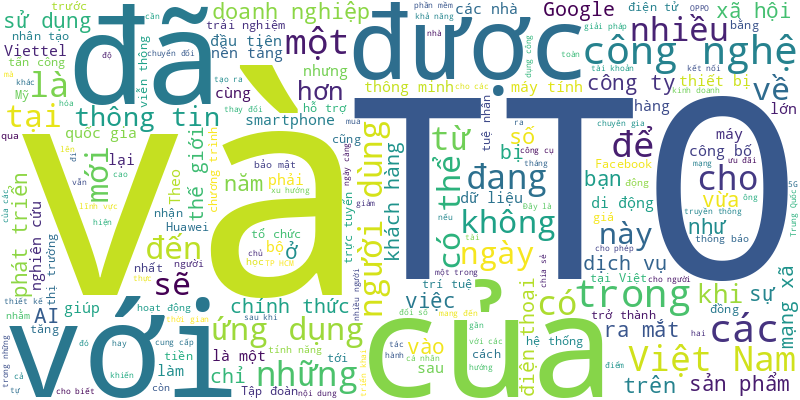
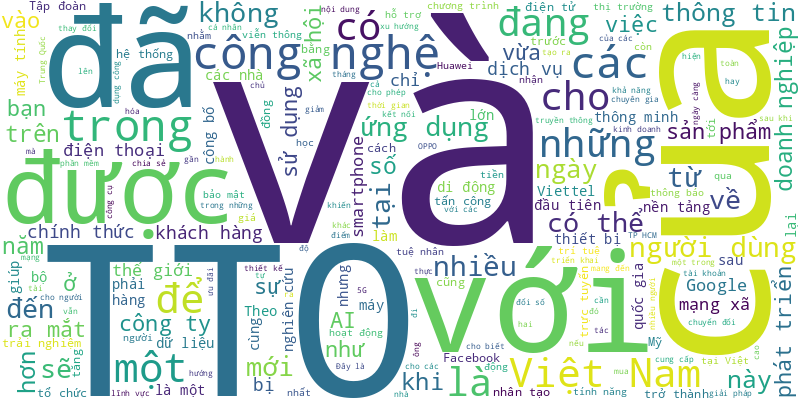
🍀 = 60%

diff --git a/README.md b/README.md
@@ -1,6 +1,20 @@
 # Tuoi Tre RSS 
 
 ## Giáo dục 
+- Sở GD-ĐT TP.HCM vừa xây dựng kế hoạch sắp xếp bộ máy khi không còn phòng GD-ĐT.
+- Công an tỉnh Bắc Giang vừa phát hiện 15 giáo viên mua bằng giả cao đẳng, đại học và chứng chỉ tin học, ngoại ngữ để thi tuyển hoặc xếp lương giáo viên.
+- Chuyên gia Ngân hàng Thế giới đã chỉ ra hàng loạt điểm yếu trong đào tạo nhân lực bán dẫn ở Việt Nam, và khuyến nghị doanh nghiệp cùng tham gia vào quá trình đào tạo để đảm bảo chất lượng đầu ra đáp ứng yêu cầu thực tiễn.
+- Trước khi nam sinh diễn văn nghệ bị điện giật tử vong, nhiều học sinh khác cũng nghe "tê tê" dưới chân khi đứng trên sân khấu, nghi rò rỉ điện.
+- Nhiều quốc gia đã triển khai các chương trình quy mô lớn nhằm nâng cao năng lực tiếng Anh cho đội ngũ giáo viên, không chỉ giới hạn ở giáo viên tiếng Anh.
+- Số trẻ em Hàn Quốc mắc trầm cảm, rối loạn lo âu tăng vọt, dấy lên lo ngại về áp lực học tập quá mức tại các khu vực nóng về giáo dục tư nhân như Gangnam.
+- Sáng 26-4, tại Trung tâm Đào tạo Nhân lực chất lượng cao (TP.HCM), trường Đại học Công nghệ TP.HCM (HUTECH) đã tổ chức lễ kỷ niệm 30 năm thành lập (26-4-1995 đến 26-04-2025).
+- Việc tuyển sinh trình độ cao đẳng năm 2025 vẫn được giữ ổn định như các năm gần đây.
+- Cần làm gì để việc khảo sát năng lực tiếng Anh cho giáo viên của Sở Giáo dục và đào tạo TP.HCM được thực chất hơn?
+- Sở Giáo dục và Đào tạo TP.HCM vừa xây dựng kế hoạch sắp xếp bộ máy khi không còn phòng giáo dục và đào tạo.
+- Nguyễn Thị Mỹ Ngọc, sinh viên khóa 2021 ngành vật lý kỹ thuật Trường đại học Bách khoa (Đại học Quốc gia TP.HCM), vừa tốt nghiệp trước hạn, xếp loại xuất sắc.
+- Tại Kỳ thi Olympic giao lưu toán học Turkmenistan vừa diễn ra, cả 6 học sinh Việt Nam dự giải đều đoạt huy chương vàng.
+- Nam sinh lớp 9 ở huyện Ba Tơ, Quảng Ngãi đang biểu diễn văn nghệ tại trường vô tình đụng vào trụ sắt trên sân khấu và bị điện giật tử vong.
+- GS.TS Đặng Lương Mô, GS danh dự Đại học Hosei (Nhật Bản), cố vấn cao cấp tại Đại học Quốc gia TP.HCM, là người tiên phong trong việc phát triển ngành công nghệ vi mạch tại Việt Nam.
 - Việc Sở Giáo dục và Đào tạo TP.HCM khảo sát năng lực tiếng Anh của giáo viên là chủ trương đúng, cần thiết. Nhưng cách thực hiện đang bộc lộ nhiều bất cập.
 - Trong năm 2024, có tổng cộng 29.187 du học sinh nước ngoài theo học tại Hàn Quốc, trong đó Việt Việt Nam dẫn đầu về số lượng du học sinh ngành kỹ thuật, chiếm 25,1% tổng số du học sinh.
 - Ngày 25-4 tại Trường đại học Điện lực, Ngày hội việc làm (EPU’s Job Fair 2025) thu hút gần 30 doanh nghiệp, trong đó có nhiều doanh nghiệp lớn như Samsung, Foxconn, BYD, FPT, mang lại hơn 3.000 cơ hội việc làm cho sinh viên.
@@ -990,22 +1004,71 @@ Trường đại học Văn Lang được QS xếp hạng top 51-100 thế giớ
 - Từng thực tập tại các "ông lớn" công nghệ như Facebook, Nvidia, thế nhưng "cơn bão" sa thải nhân sự tại Mỹ vào cuối năm 2023 khiến Nhật Quang vô cùng căng thẳng, phải rải hơn 600 đơn tìm việc làm từ khi chưa tốt nghiệp.
 - Đại học Huế vừa có quyết định hủy kết quả trúng tuyển cao học của bà Đào Thị Bích Thủy - một lãnh đạo Trường đại học Kinh Bắc.
 - Dù đã hoàn thành chương trình liên kết đào tạo thạc sĩ điều hành quản trị kinh doanh (EMBA) hơn 1 năm qua, nhưng đến nay học viên vẫn chưa được công nhận văn bằng tại Việt Nam.
-- Lịch nghỉ Tết Ất Tỵ năm 2025 của học sinh cả nước dao động từ 9 đến 15 ngày.
-- Trường liên cấp FPT tại Hậu Giang hứa hẹn mang lại làn gió mới cho ngành giáo dục và góp phần phát triển giáo dục của địa phương.
-- Trong ngày 11 và 12-1, báo Tuổi Trẻ tổ chức chuỗi 7 chương trình tư vấn tuyển sinh hướng nghiệp tại 6 tỉnh thành trên khắp cả nước, khởi động cho mùa tư vấn 2025.
-- Năm 2025, Trường đại học Y Hà Nội dự kiến sẽ mở thêm 2 ngành đào tạo mới, gồm ngành công tác xã hội và ngành kỹ thuật hình ảnh y học.
-- Đây là chia sẻ của Bộ trưởng Bộ Giáo dục và Đào tạo Nguyễn Kim Sơn tại lễ công bố quyết định của Thủ tướng Chính phủ chuyển Trường đại học Kinh tế quốc dân thành Đại học Kinh tế quốc dân sáng 12-1.
-- Vượt qua hơn 25.000 thí sinh, một sinh viên đã nhận được giải thưởng tiền mặt trị giá 1 tỉ đồng từ chương trình thực tế về quản lý tài chính cá nhân.
-- Nhiều học sinh ở Gia Lai lo tỉ lệ đậu tốt nghiệp THPT và đại học quá cao sẽ ảnh hưởng đến cơ hội tìm việc, lo sáp nhập sẽ kéo giảm nhu cầu nhân lực...
-- Học ngành sư phạm ngoại ngữ có nhiều cơ hội việc làm không; Học ngành gì khi Đà Nẵng sắp lập khu thương mại tự do... Học sinh thắc mắc khi đến Chương trình tư vấn tuyển sinh - hướng nghiệp tại Đà Nẵng sáng 12-1.
-- Đề thi tốt nghiệp có dễ hơn khi siết dạy thêm? Cơ hội việc làm các ngành ra sao khi nhiều nơi đang tinh gọn?... Học sinh băn khoăn tại Chương trình tư vấn tuyển sinh - hướng nghiệp diễn ra ở Thanh Hóa.
-- Học liên ngành, sinh viên ra trường có thể tiếp cận nhiều vị trí công việc khác nhau, có thêm nhiều kỹ năng về đổi mới sáng tạo, phân tích dữ liệu.
-- Nhiều băn khoăn, thắc mắc của thí sinh, phụ huynh về tuyển sinh đại học năm nay đã được đại diện Vụ Giáo dục đại học giải đáp cặn kẽ trong bốn buổi tư vấn đầu tiên của Chương trình tư vấn tuyển sinh - hướng nghiệp 2025.
-- TS Trần Hoàng Dũng - giáo sư trợ lý tại Đại học Nebraska-Lincoln (Mỹ) - được trao giải nhất SIU Prize Computer Science với những đóng góp xuất sắc trong lĩnh vực hệ thống thực - ảo tự học.
-- Học sinh thích thú khi gặp chú chó robot biết thả tim, được mở quà 'túi mù'… trong chương trình tư vấn tuyển sinh đang diễn ra tại Đà Nẵng sáng nay 12-1.
-- Chiều 11-1, Viện phát triển nguồn lực xã hội Phương Nam (Viện Phương Nam) ký kết thỏa thuận hợp tác với Trường đại học Khoa học, Đại học Huế.
 ![Edu](Edu.png)
 ## Thời Sự 
+- Trả lời ý kiến nhân dân về việc vì sao không tổ chức thành phố Hội An như hiện nay thành một phường, ông Lê Văn Dũng - Chủ tịch UBND tỉnh Quảng Nam - cho rằng nếu thành lập phường xã mà qui mô quá lớn thì khó gần dân, sát dân.
+- Sau khi sáp nhập 3 tỉnh Bến Tre, Trà Vinh và Vĩnh Long thành một tỉnh mới, ngoài cây cầu Cổ Chiên hiện hữu, trong tương lai sẽ có thêm cầu Cổ Chiên 2 và cầu Đình Khao. Vị trí của những cây cầu này nằm ở đâu?
+- Ông Hoàng Khánh Duy - phó trưởng Ban quản lý Khu kinh tế cửa khẩu Đồng Đăng - Lạng Sơn (tỉnh Lạng Sơn) - cho biết tình hình xuất nhập khẩu hàng hóa ở các cửa khẩu tại tỉnh Lạng Sơn vẫn hoạt động bình thường.
+- Dưới dây là những thông tin về thời gian, khu vực cấm xe, kinh nghiệm đi xem tổng duyệt an toàn, những điểm lý tưởng xem các hoạt động chính của đại lễ...
+- Trưa 26-2, anh Alvin Neoh (35 tuổi, người Malaysia) cùng hai người bạn của mình tranh thủ đến Bưu điện TP.HCM để chụp ảnh, ngắm quang cảnh TP.
+- Theo thống kê của UBND xã Phong Vân (huyện Ba Vì, Hà Nội), có 47 hộ dân ở bãi sông Hồng bị nứt, đoạn đê kè bị ảnh hưởng vẫn chưa được gia cố lại dù đã một năm trôi qua.
+- Sau khi hoàn thành phần diễu binh ngang qua lễ đài, các khối quân đội, công an tỏa ra 4 hướng về điểm tập kết, đi giữa tiếng hò reo động viên của đông đảo người dân.
+- Dự kiến, sau khi hợp nhất tỉnh Lào Cai và tỉnh Yên Bái, các cơ quan, đơn vị thuộc tỉnh Lào Cai mới sẽ bố trí hai nơi làm việc ở Yên Bái (trụ sở chính) và Lào Cai.
+- 8h08, máy bay tới TP.HCM, người dân hò reo phấn khích. Nắng lên không làm người dân khó chịu mà ai cũng hào hứng, tự hào chen lẫn xúc động.
+- Tin tức đáng chú ý: Sáp nhập Gia Lai và Bình Định, tỉnh mới có 135 đơn vị hành chính; "Chuyến tàu đại đoàn kết" - hải trình đưa 60 kiều bào thăm Trường Sa và Nhà giàn DK1; Cảnh báo có thuốc giả mua bán trên mạng...
+- Tại bến Bạch Đằng nơi bố trí trận địa pháo lễ và có tầm nhìn tốt để thấy máy bay trực thăng, tiêm kích, người dân cũng tập trung từ rất sớm. Tại đây hầu như không còn vị trí trống từ 6h sáng.
+- Hôm nay 27-4, mưa sẽ giảm ở Nam Bộ, thời tiết nắng nóng quay trở lại và chiếm ưu thế.
+- Hệ thống đèn hiệu đường băng sân bay Long Thành vừa hoàn thành, vận hành thử nghiệm thành công sẵn sàng phục vụ công tác bay hiệu chuẩn.
+- Phát biểu nhân kỷ niệm 50 năm thống nhất đất nước, Chủ tịch Quốc hội Trần Thanh Mẫn lưu ý Cần Thơ cần đảm bảo sự đoàn kết, đồng thời "mới mẻ trong cách nghĩ - sáng tạo trong cách làm - hiệu quả trong triển khai thực hiện".
+- Tổng Bí thư, Chủ tịch nước Lào Thongloun Sisoulith và Chủ tịch Đảng Nhân dân Campuchia (CPP), Chủ tịch Thượng viện Campuchia Hun Sen sẽ dẫn đầu đoàn đại biểu cấp cao hai nước này sang dự lễ kỷ niệm ngày 30-4.
+- Long An đã tổ chức lễ dâng hương nghĩa trang liệt sĩ, lễ kỷ niệm và hội chợ, triển lãm nhân dịp 50 năm ngày thống nhất đất nước.
+- Phó thủ tướng thường trực Nguyễn Hòa Bình mong người lao động chủ động học hỏi, rèn luyện kỹ năng, tăng cường kỷ luật, không ngừng đổi mới, sáng tạo và yêu lao động như yêu chính cuộc sống của mình.
+- Theo bí thư Tỉnh ủy Bình Định, phương án sáp nhập hai tỉnh phải tạo được sự đoàn kết, nhất trí cao và mang lại sức mạnh mới đưa tỉnh phát triển tốt hơn.
+- Ông Nguyễn Trọng Nghĩa - Trưởng Ban Tuyên giáo và Dân vận Trung ương đến thăm, động viên, tặng quà lực lượng công an tham gia diễu binh tại Lễ kỷ niệm 50 năm Ngày Giải phóng miền Nam, thống nhất đất nước.
+- Các dự án cầu Cát Lái, Phú Mỹ 2, Đồng Nai 2 nối TP.HCM và Đồng Nai có tổng mức vốn gần 60.000 tỉ đồng.
+- 100% đại biểu Hội đồng nhân dân tỉnh Yên Bái và Lào Cai biểu quyết thông qua nghị quyết về chủ trương hợp nhất tỉnh Lào Cai và tỉnh Yên Bái thành tỉnh Lào Cai.
+- Ngoài một số đường phố, quảng trường 1 Tháng 4 cũng được đổi tên thành quảng trường Phú Yên.
+- Dự kiến sẽ có tổng số 79 trụ sở dôi dư sau khi 2 tỉnh Quảng Bình, Quảng Trị sáp nhập thành tỉnh Quảng Trị mới.
+- Trung tướng Nguyễn Văn Long - thứ trưởng Bộ Công an vừa có thư khen Công an tỉnh Thanh Hóa về thành tích triệt phá đường dây sản xuất, buôn bán thuốc giả quy mô lớn.
+- Nguyên nhân tai nạn bước đầu được xác định là xe khách đi từ thị trấn Tam Đảo (Vĩnh Phúc) xuống bị mất phanh.
+- Sáng mai 27-4 sẽ diễn ra buổi tổng duyệt diễu binh, diễu hành cấp nhà nước. Buổi này có những hoạt động gì khác với những buổi tổng luyện, sơ duyệt?
+- Nhu cầu đặt xe công nghệ để vào trung tâm TP.HCM xem diễu binh, bắn pháo hoa dịp lễ 30-4 và 1-5 tăng cao. Khách hàng sẵn sàng trả giá cao nhưng vẫn khó gọi được xe.
+- Người dân cho biết họ từng ra vào hang Lèn Chùa nhưng không phát hiện điều bất thường. Trước khi phát hiện xương và sọ người, có một nhóm người xuất hiện ở gần hang.
+- Dự Luật Tổ chức Tòa án nhân dân sửa đổi đề xuất tổ chức mô hình tòa án 3 cấp, trong đó bỏ Tòa án nhân dân cấp cao, cấp huyện, lập tòa chuyên trách trong tòa án khu vực.
+- Phóng viên Tuổi Trẻ tham gia cùng đoàn công tác số 12, Quân chủng Hải quân (Bộ Quốc phòng) và Bộ Y tế vừa có chuyến công tác đến quần đảo Trường Sa và nhà giàn DK1/15 trong những ngày đặc biệt của đất nước.
+- Mạng xã hội lại xuất hiện một clip phản cảm, ghi lại cảnh khán giả 'hỗn chiến' trên sông bằng đất đá, vật cứng tại một giải đua ghe ở Huế, khiến dư luận bức xúc.
+- Xe chở rác va chạm với 2 xe máy trên quốc lộ N2 khiến hai người chết tại chỗ, hai người bị thương nặng.
+- Theo thông tin cập nhật từ Bệnh viện Đa khoa tỉnh Vĩnh Phúc, 3 nạn nhân bị thương nặng trong vụ lật xe khách ở Tam Đảo sáng nay đã được chuyển cấp cứu khẩn cấp về Bệnh viện Việt Đức.
+- Tòa án nhân dân tối cao đề nghị UBND tỉnh Nghệ An tiếp nhận phần diện tích nhà đất gần 650m² để giải quyết vụ việc 8 hộ dân sống 'treo' suốt hơn 30 năm qua.
+- Ngày 26-4, Thủ tướng Phạm Minh Chính đã ký quyết định bổ nhiệm Trung tướng Nguyễn Hồng Thái, tư lệnh Quân khu 1, giữ chức thứ trưởng Bộ Quốc phòng.
+- Di tích khảo cổ Vĩnh Hưng ở Bạc Liêu được xếp hạng di tích quốc gia đặc biệt. Di tích thuộc nền văn hóa Óc Eo này có 5 hiện vật đã được công nhận là bảo vật quốc gia.
+- Dài gần 14km với 12 làn xe, đường Phạm Văn Đồng với cây cầu Bình Lợi sừng sững bắc qua sông Sài Gòn như một biểu tượng đón chào tất cả mọi người.
+- Trong số 200 sản phẩm thực phẩm bảo vệ sức khỏe mà Công ty TNHH công nghệ Herbitech (Hà Nội) đã gia công sản xuất, cơ quan công an xác định có 2 sản phẩm giả mạo kết quả kiểm nghiệm.
+- Dự luật đề xuất HĐND cấp xã ban hành nghị quyết để quy định những vấn đề được luật, nghị quyết của Quốc hội giao.
+- Theo Tổng Thanh tra Chính phủ Đoàn Hồng Phong, dự luật quy định thống nhất một hoạt động thanh tra, không phân biệt thanh tra hành chính, thanh tra chuyên ngành.
+- Hiện nay Đà Nẵng không có HĐND phường, mà chỉ có ở xã. Sau khi sắp xếp thu gọn còn 16 đơn vị hành chính cấp xã phường, rồi hợp nhất với Quảng Nam thì tổ chức HĐND cấp xã phường sẽ tổ chức ra sao?
+- Ngày 26-4, Tỉnh ủy Tây Ninh đã tổ chức hội nghị công bố quyết định của Ban Bí thư về công tác cán bộ.
+- Dự báo khoảng ngày 27 đến 28-4, miền Bắc đón đợt không khí lạnh yếu, gây mưa, mưa vừa, cục bộ mưa to và rải rác có dông, nguy cơ xảy ra dông, lốc, sét.
+- Nữ thầy bói hù người đang mắc bệnh ung thư bị người âm theo, cần phải 'dâng lệnh' để cúng, nếu không cả gia đình sẽ bị ung thư hết. Từ đó, nữ thầy bói lừa nạn nhân 370 triệu đồng.
+- Ngày 26-4, làng Canh Tiến, xã Canh Liên (huyện Vân Canh, Bình Định) được đấu nối vào lưới điện quốc gia trong niềm vui mừng khôn tả của đồng bào.
+- Vào một số khung giờ, xe tải 20 tấn sẽ bị cấm di chuyển qua đèo Bảo Lộc (quốc lộ 20, tỉnh Lâm Đồng) trong dịp nghỉ lễ 30-4, 1-5 năm nay.
+- Ứng dụng MultiGo vừa chính thức giới thiệu loạt tính năng mới nhằm nâng cao trải nghiệm người dùng, và thúc đẩy việc sử dụng giao thông công cộng tại TP.HCM.
+- Hai tàu hàng di chuyển trên sông Lòng Tàu (xã An Thới Đông, huyện Cần Giờ) bất ngờ xảy ra va chạm. Cơ quan chức năng ghi nhận có dầu tràn ra sông.
+- Sáng 26-4, dự án nâng cấp, mở rộng đường Nguyễn Thị Định được khởi công. Dự án nhằm cải thiện hạ tầng giao thông khu vực cửa ngõ phía đông TP.HCM, cảng Cát Lái.
+- Sáng 26-4, Thủ tướng Phạm Minh Chính - trưởng Ban Chỉ đạo các công trình trọng điểm, dự án quan trọng quốc gia lĩnh vực đường sắt - chủ trì phiên họp thứ hai.
+- Xe khách bị lật ngang nằm ở mép đường đèo Tam Đảo, Vĩnh Phúc khiến 3 người chết, 8 người bị thương. Lực lượng chức năng đang phong tỏa hiện trường, đưa các nạn nhân đi cấp cứu.
+- TP Huế sẽ dùng phần lớn số tiền 1.120 tỉ đồng thu vượt ngân sách dự toán 2024 để sử dụng làm nguồn cải cách tiền lương.
+- Các điểm vui chơi nổi tiếng ở TP Phú Quốc (Kiên Giang) những ngày này đã được trang trí rực đỏ lá cờ Tổ quốc. Khách du lịch trong và ngoài nước vui thích chụp ảnh bên cờ đỏ sao vàng Việt Nam.
+- Nhiều người dân ở TP Phú Quốc sau khi ăn nấm lạ phải đi cấp cứu, nghi bị ngộ độc, có người rơi vào hôn mê.
+- Sáng 26-4, HĐND tỉnh Quảng Nam tổ chức kỳ họp thứ 31, các đại biểu thảo luận, thông qua các nghị quyết quan trọng về chủ trương sắp xếp đơn vị hành chính cấp tỉnh, cấp xã.
+- Công trình công viên tượng đài, nhà lưu niệm Anh hùng liệt sĩ Võ Thị Sáu tại tỉnh Bà Rịa - Vũng Tàu được khánh thành đúng dịp lễ 30-4 mang nhiều ý nghĩa. Đại tướng Phan Văn Giang đến dự lễ khánh thành, thắp hương viếng nữ Anh hùng Võ Thị Sáu.
+- Nhằm bảo đảm người dân an tâm vui chơi, Công an TP.HCM khuyến cáo kỹ năng thoát nạn khi tham gia các sự kiện, lễ hội đông người.
+- Chính phủ đề xuất 12 chính sách miễn, giảm tiền thuê đất cho các trường hợp, trong đó có dự án chip bán dẫn, trí tuệ nhân tạo.
+- Ngày 30 tháng 4 gợi chúng ta nhớ lại ngày toàn thắng của Chiến dịch Hồ Chí Minh lịch sử. Đất nước, giang sơn thu về một mối.
+- UBND TP.HCM sẽ khảo sát cán bộ, công chức, viên chức ở các đơn vị trực thuộc để cân nhắc, điều chỉnh, hoàn thiện các giải pháp, phương án sắp xếp bộ máy, bố trí và giải quyết chế độ, chính sách cho đội ngũ dôi dư.
+- Ngày mai 27-4, các khối diễu binh, diễu hành sẽ tổng duyệt ở khu vực trung tâm TP.HCM. Người dân cần nắm rõ khu vực cấm xe, điểm gửi xe... để đi lại an toàn, tránh ùn tắc.
+- Nam sinh lớp 9 ở huyện Ba Tơ, Quảng Ngãi đang biểu diễn văn nghệ tại trường vô tình đụng vào trụ sắt trên sân khấu và bị điện giật tử vong.
+- Sáng 26-4, HĐND tỉnh Quảng Nam tổ chức kỳ họp thứ 31, trong đó các đại biểu sẽ thảo luận, thông qua các nghị quyết quan trọng về chủ trương sắp xếp đơn vị hành chính cấp tỉnh, cấp xã.
 - Quảng Nam - Đà Nẵng là một trong những nơi có liệt sĩ, Mẹ Việt Nam anh hùng nhiều nhất cả nước. Trong hàng vạn gia đình tận hiến cho Tổ quốc, có một gia đình có tới 3 anh hùng: một người là cha, người kia là mẹ và người kế tiếp là con trai.
 - Một người đàn ông trú tại tỉnh An Giang đã thuê giang hồ chặn xe chở gỗ của người nợ tiền mình để cưỡng đoạt tài sản, rồi mang đi bán trừ nợ.
 - Ngày 25-4, Viện Nghiên cứu phát triển TP.HCM tổ chức hội thảo về định hình không gian phát triển TP.HCM mới sau khi sáp nhập thêm Bình Dương và Bà Rịa - Vũng Tàu.
@@ -1943,69 +2006,6 @@ Trường đại học Văn Lang được QS xếp hạng top 51-100 thế giớ
 - Vợ chồng Việt kiều Nguyễn Ngọc Lý bị khởi tố, bắt tạm giam để phục vụ công tác điều tra hành vi lừa đảo chiếm đoạt tài sản.
 - Tại dự Luật Tổ chức chính quyền địa phương sửa đổi đề xuất giải thể đơn vị huyện, quận, thành phố thuộc tỉnh, thành phố thuộc thành phố, thị xã, thị trấn kể từ 1-7.
 - Được tìm thấy cùng 65 hài cốt liệt sĩ và chuyên gia Việt Nam hy sinh trên đất nước bạn Lào là nhiều di vật, trong đó có mảnh lược khắc chữ 'Hạnh phúc'.
-- Công an xã Quế Mỹ, huyện Quế Sơn, Quảng Nam đã mời chủ nhóm trẻ tư thục và cũng là người bạo hành trẻ làm việc.
-- Dự kiến Tổng Bí thư, Chủ tịch nước Trung Quốc Tập Cận Bình sẽ có lịch trình dày đặc các cuộc gặp với lãnh đạo cấp cao Việt Nam trong hai ngày ở Hà Nội, với hàng chục văn kiện được ký kết.
-- Không cập nhật căn cước công dân vào hồ sơ tham gia bảo hiểm y tế, bảo hiểm xã hội trước 31-3 sẽ bị ảnh hưởng quyền lợi, vậy khi gặp lỗi người lao động phải làm gì?
-- Tính theo số năm công tác đóng bảo hiểm xã hội, thời gian nghỉ hưu trước tuổi dài và hệ số phụ cấp nên một cán bộ huyện ở Nghệ An sẽ được hưởng hơn 2,4 tỉ đồng.
-- Ngày 12-4, ông Trần Văn Thi - giám đốc Ban Quản lý dự án Mỹ Thuận (Bộ Xây dựng) - cho biết cầu Rạch Miễu 2 sẽ chính thức hợp long vào ngày 19-4.
-- Ngày 14 và 15-4, tại Hà Nội diễn ra hoạt động của các đoàn khách quốc tế sang thăm và làm việc. Hà Nội sẽ tạm cấm một số tuyến đường và phân luồng từ xa.
-- Đó là nhận định của Tiểu ban Diễu binh, diễu hành Bộ Quốc phòng, sau buổi tổng hợp luyện đầu tiên của các lực lượng tham gia diễu binh.
-- Mẹ của cháu bé bị nhét cây gỗ vào miệng cho biết chủ nhà trẻ Con Cưng đã xin gia đình tha thứ, sau khi gia đình phát hiện sự việc bạo hành trẻ.
-- Chỉ trong vòng chưa đầy một tháng, TP.HCM liên tiếp xảy ra ba vụ nghi ngộ độc thực phẩm tập thể tại các trường học khiến nhiều học sinh nhập viện.
-- Thanh tra Chính phủ sẽ tiếp nhận 12 thanh tra bộ, sáp nhập một số đơn vị, thành lập các cục thanh tra, giải quyết khiếu nại tố cáo, xử lý sau thanh tra.
-- Chủ tịch UBND TP Trần Sỹ Thanh vừa ký ban hành chỉ thị số 06 về việc tăng cường quản lý công tác văn thư, lưu trữ trong quá trình sắp xếp tổ chức bộ máy của hệ thống chính trị.
-- Hôm nay 12-4, do ảnh hưởng không khí lạnh nên thời tiết Bắc Bộ mưa rào đến mưa to. Nam Bộ ngày nắng, chiều tối mưa trái mùa.
-- Tin tức đáng chú ý: Thủ tướng chúc mừng bà con Khmer đón tết; Hà Nội 6 điểm thi THPT chương trình giáo dục phổ thông 2006; Hà Nội tặng cán bộ lão thành cách mạng 2 triệu đồng/người nhân 50 năm thống nhất đất nước...
-- Công an tỉnh Phú Yên vừa ra quyết định khởi tố 2 tài xế tông chết người đi đường, rồi bỏ trốn khỏi hiện trường.
-- TP Nha Trang vừa được giao nhiệm vụ điều chỉnh quy hoạch, bồi thường, hỗ trợ, tái định cư nhằm giải tỏa toàn bộ khu nhà dân ở đường Nguyễn Bỉnh Khiêm hiện nay, giáp dự án xây dựng trụ sở các cơ quan tỉnh Khánh Hòa.
-- Mạng xã hội xôn xao clip tại một nhà trẻ được cho là ở huyện Quế Sơn, Quảng Nam, các cháu bé đã bị cô túm chân lên đánh, nhét cây gỗ vào miệng.
-- Theo Chủ tịch UBND TP Cần Thơ Trương Cảnh Tuyên, ngày 12-4 Hậu Giang và Sóc Trăng sẽ cung cấp cho Cần Thơ toàn bộ dữ liệu về cán bộ công chức, đơn vị hành chính cấp xã và số lượng cơ sở nhà đất, tài sản để Cần Thơ xây dựng đề án.
-- Do mưa dông, cây xanh bất ngờ đổ đè lên xe máy làm một thiếu nữ 16 tuổi tại Bình Dương tử vong.
-- UBND TP.HCM vừa có văn bản về công tác tuyển dụng, bổ nhiệm chức vụ lãnh đạo, quản lý nâng ngạch công chức, thăng hạng chức danh nghề nghiệp viên chức và hợp đồng lao động khi sắp xếp bộ máy.
-- Văn phòng Chính phủ ban hành thông báo số 170 kết luận của Phó thủ tướng thường trực Nguyễn Hòa Bình, tại buổi làm việc với Ban Thường vụ Tỉnh ủy Quảng Ninh.
-- Dù lượn đảo quanh trên bầu trời TP Quảng Ngãi, người dân tụ về quảng trường Phạm Văn Đồng xem các nghệ sĩ trình diễn và trầm trồ trước những pha đảo dù, thả cờ Tổ quốc trên không trung.
-- Ủy ban Kiểm tra Thành ủy Cần Thơ vừa triển khai kết luận của Ủy ban Kiểm tra Trung ương, theo đó tiến hành kiểm tra tại Đảng bộ Văn phòng UBND thành phố Cần Thơ. Chủ tịch UBND TP Cần Thơ Trương Cảnh Tuyên có thông tin thêm về việc này.
-- Sau hợp nhất, Ban Quản lý dự án đầu tư xây dựng hạ tầng đô thị TP.HCM giảm đáng kể số phòng ban và nhân sự, nâng hiệu quả quản lý dự án.
-- Ngày 11-4, Trung ương Đảng thảo luận nhiều nội dung quan trọng liên quan sắp xếp tổ chức bộ máy, sắp xếp đơn vị hành chính, phương hướng công tác nhân sự.
-- Ngày 11-4, Liên đoàn Lao động tỉnh Lào Cai tổ chức chương trình hỗ trợ đoàn viên, người lao động bị thiệt hại do ảnh hưởng của mưa bão số 3 (Yagi) năm 2024, từ nguồn hỗ trợ của Tổng liên đoàn Lao động Việt Nam và báo Tuổi Trẻ.
-- Một chiếc xe máy đã tông gãy lan can cầu khu vực tượng đài Chuyến tàu tập kết ra Bắc ở thị trấn Sông Đốc, huyện Trần Văn Thời, tỉnh Cà Mau. Nhiều người dân đã quay lại và tung lên mạng đề nghị kiểm tra chất lượng công trình.
-- Những ngày qua, khu vực trung tâm TP.HCM nhộn nhịp với các hoạt động thi công khán đài và sân khấu chuẩn bị cho lễ kỷ niệm 50 năm Ngày Giải phóng miền Nam, thống nhất đất nước (30-4-1975 - 30-4-2025).
-- Liên đoàn Quy hoạch và Điều tra tài nguyên nước miền Trung vừa có báo cáo thông tin kết quả khảo sát điểm bùn phun trào tại thôn Tân Vinh (xã Xuân Sơn Nam, huyện Đồng Xuân, tỉnh Phú Yên).
-- Các gói thầu, công trình giao thông đô thị như vành đai 2, cao tốc TP.HCM - Mộc Bài, rạch Xuyên Tâm... sẽ khởi công trước 30-4.
-- Theo Chủ tịch UBND thành phố Cần Thơ Trương Cảnh Tuyên, với những giải pháp mà thành phố đang tháo gỡ, trong năm 2026 có thể hoàn thành dự án Bệnh viện Ung bướu Cần Thơ '8 năm xây không xong'.
-- Bộ Nội vụ cho rằng thực hiện chủ trương sắp xếp, tinh gọn bộ máy theo các kết luận của Bộ Chính trị, Ban Bí thư, đề nghị tỉnh Quảng Nam chưa thực hiện thành lập Trung tâm phát triển quỹ đất thuộc UBND tỉnh này.
-- Rào chắn thi công trên đường Lương Định Của (Thủ Đức, TP.HCM) gây kẹt xe, người dân đi lại khó khăn thời gian qua dự kiến được tháo dỡ vào cuối tháng 5-2025.
-- UBND TP.HCM vừa tiếp tục ra văn bản yêu cầu các quận huyện, sở ngành liên quan chấn chỉnh, xử lý nghiêm các chủ đầu tư, đơn vị thi công cải tạo vỉa hè ảnh hưởng đến cây xanh.
-- Doanh nghiệp làm du lịch ở Phú Quốc tập huấn, đào tạo ngoại ngữ cho nhân viên và rà soát an ninh, phòng cháy chữa cháy, góp sức phục vụ thành công Diễn đàn hợp tác kinh tế châu Á - Thái Bình Dương diễn ra Phú Quốc vào năm 2027 (APEC 2027).
-- Quyền chủ tịch UBND tỉnh Quảng Trị vừa có văn bản phê bình Ban Quản lý khu kinh tế tỉnh này vì gây bức xúc cho doanh nghiệp.
-- Nền xanh và nội dung trên biển báo chỉ hướng đường trên quốc lộ 1 ở Hà Tĩnh đã bị bóc, gỡ và xịt sơn quảng cáo 'khỏi hen 100%' kèm theo số điện thoại.
-- Dự báo từ ngày mai (12-4), do ảnh hưởng của không khí lạnh nên ở miền Bắc và miền Trung có mưa vừa đến mưa to, nguy cơ rất cao xảy ra dông lốc, mưa đá.
-- Tỉnh Khánh Hòa vừa giao UBND TP Nha Trang chủ trì, phối hợp kiểm tra, giải quyết dứt điểm tình trạng ô nhiễm sông Quán Trường, xử lý nghiêm các trường hợp tự ý đặt ổng xả chất thải ra sông này.
-- Những ngày này, bầu trời Biên Hòa (Đồng Nai) liên tục vang lên tiếng gầm rú của tiêm kích Su-30MK2 xé toang không gian. Phi công Đặng Đình Kiên, một trong những gương mặt kỳ cựu của Không quân Việt Nam, thực hiện những pha nhào lộn thuần thục.
-- Ban Thường vụ Đảng ủy Công an TP.HCM đã công bố và trao quyết định chỉ định ủy viên Ban Chấp hành Đảng bộ, Ban Thường vụ Đảng ủy Công an TP, nhiệm kỳ 2020 - 2025 đối với đại tá Trần Hồng Minh - phó giám đốc Công an TP.HCM.
-- Ghi nhận của Tuổi Trẻ Online, trên quốc lộ và một số tuyến đường gần bệnh viện ở TP.HCM có nhiều người đi bộ sai quy định, tiềm ẩn nguy cơ mất an toàn.
-- Chiều 11-4, một lãnh đạo UBND tỉnh Đắk Nông cho biết vừa có đợt khảo sát, làm việc với lãnh đạo UBND tỉnh Lâm Đồng, thống nhất đề xuất đầu tư các tuyến giao thông kết nối hai địa phương.
-- UBND phường Tiên Nội (thị xã Duy Tiên, Hà Nam) đã kịp thời xử lý vụ việc đòi phí chụp ảnh ở khu vực gốc cây gạo, thuộc tổ dân phố Đoài.
-- Xe quá tải chạy khắp Khu kinh tế Dung Quất, Quảng Ngãi. Có xe quá tải đến 179%. Đội xe này luôn có người cảnh giới, thấy cảnh sát giao thông là lập tức 'án binh bất động'.
-- Hàng xóm nơi Mai Văn Dưỡng (TikToker Dưỡng Dướng Dường) cho biết sáng nay, nhóm cộng sự của Dưỡng vẫn trao gạo miễn phí cho người khó khăn.
-- Hơn 4km đường dây điện hạ thế với vốn đầu tư 4,6 tỉ đồng đã được kéo về khu vực 70 hộ dân ở tuyến kênh Lung Lá, thuộc khóm 5, phường Tân Xuyên, TP Cà Mau. Người dân vui mừng vì sau mấy mươi năm giờ đã có điện lưới quốc gia sử dụng.
-- Dự án nâng cấp, mở rộng 7km đoạn qua địa bàn thành phố Cần Thơ có chi phí hơn 7.200 tỉ đồng chưa thể khởi công trước 30-4 như kế hoạch.
-- Sở Xây dựng tỉnh Bình Phước đề xuất phương án nâng cấp, mở rộng ĐT 753 nối Đồng Nai qua cầu Mã Đà với tổng vốn 4.500 tỉ đồng.
-- Nhiều người đi xe máy dừng ở phần vạch kẻ dành cho xe rẽ phải liên tục mà không biết, và có thể bị xử phạt.
-- Người dân phát hiện một đoạn xương chân đã phân hủy chỉ còn trơ ống xương dính chiếc giày, trôi dạt vào bãi rạn ở Ninh Thuận.
-- Quảng Nam phát phiếu để cán bộ ghi nguyện vọng công việc phục vụ sắp xếp bố trí nhân sự sau sáp nhập tỉnh, sắp xếp hành chính cấp xã phường.
-- Ngày 11-4, tại buổi họp báo quý 1-2025 của UBND TP Đà Nẵng, bà Nguyễn Thị Anh Thi - phó chủ tịch UBND TP Đà Nẵng - đề cập đến việc cần thiết cho phép phụ huynh chủ động đến trường xem suất ăn bán trú của con khi họ muốn.
-- Lãnh đạo Công an tỉnh Bắc Giang cho biết vụ cháy chùa Vẽ 300 tuổi ở phường Thọ Xương, thành phố Bắc Giang là do chập điện, không có tác động bên ngoài.
-- Phát hiện một con tê tê thuộc nhóm động vật quý hiếm mắc vào lưới bên vệ đường, người đàn ông tại Quảng Bình bàn giao cho kiểm lâm.
-- Liên quan vụ xe tải cán hai người tử vong trên đường Hoàng Cầm (TP Thủ Đức, TP.HCM), qua khám nghiệm hiện trường và quan sát camera, bước đầu lực lượng chức năng xác định xe máy qua đường 'thiếu chú ý quan sát'.
-- Sáng 11-4, Sở Giao thông công chánh TP.HCM phối hợp các đơn vị tổ chức lễ ra mắt hệ thống vé điện tử và thẻ Multipass. Với thẻ này, người dân có thể dùng để đi tất cả phương tiện công cộng.
-- Bắc Giang đang được trung ương giao chủ trì để xây dựng đề án sắp xếp tỉnh Bắc Giang và tỉnh Bắc Ninh.
-- Luật An toàn thông tin mạng ban hành năm 2015 và Luật An ninh mạng năm ban hành năm 2018 sẽ được hợp nhất thành Luật An ninh mạng năm 2025.
-- Phòng cảnh sát hình sự (Công an Đà Nẵng) vừa triệt phá chuyên án làm giả con dấu, tài liệu của cơ quan, tổ chức; tàng trữ, mua bán các loại vũ khí thô sơ, công cụ hỗ trợ với số lượng lớn, quy mô cả nước.
-- Ngày 11-4, tại buổi họp báo của UBND TP Đà Nẵng quý 1-2025, cơ quan chức năng đã có thông tin liên quan tiến độ thực hiện siêu dự án Làng Vân.
-- TP.HCM sẽ tổ chức lễ tôn vinh 50 doanh nghiệp tiêu biểu có thương hiệu và sản phẩm chủ lực của TP.HCM nhân kỷ niệm 50 năm Ngày Giải phóng miền Nam, thống nhất đất nước 30-4.
-- Lực lượng vũ trang các tỉnh miền Tây đã tổ chức nhiều hoạt động, ngày hội và cùng bà con dân tộc Khmer đón Tết cổ truyền Chol Chnam Thmay 2025.
-- Trong số hàng ngàn chiến sĩ tham gia tổng hợp luyện ở sân bay Biên Hòa, các khối diễu binh nữ được chú ý nhiều nhất bởi những bước đi mạnh mẽ, ánh mắt kiên nghị và duyên dáng.
 ![New](News.png)
 ## Nhịp sống số 
 - Tham vọng chinh phục thế giới robot hình người của Hãng xe điện Tesla (Mỹ) đang gặp trở ngại lớn, do chính sách xuất khẩu mới nhất của Trung Quốc.
